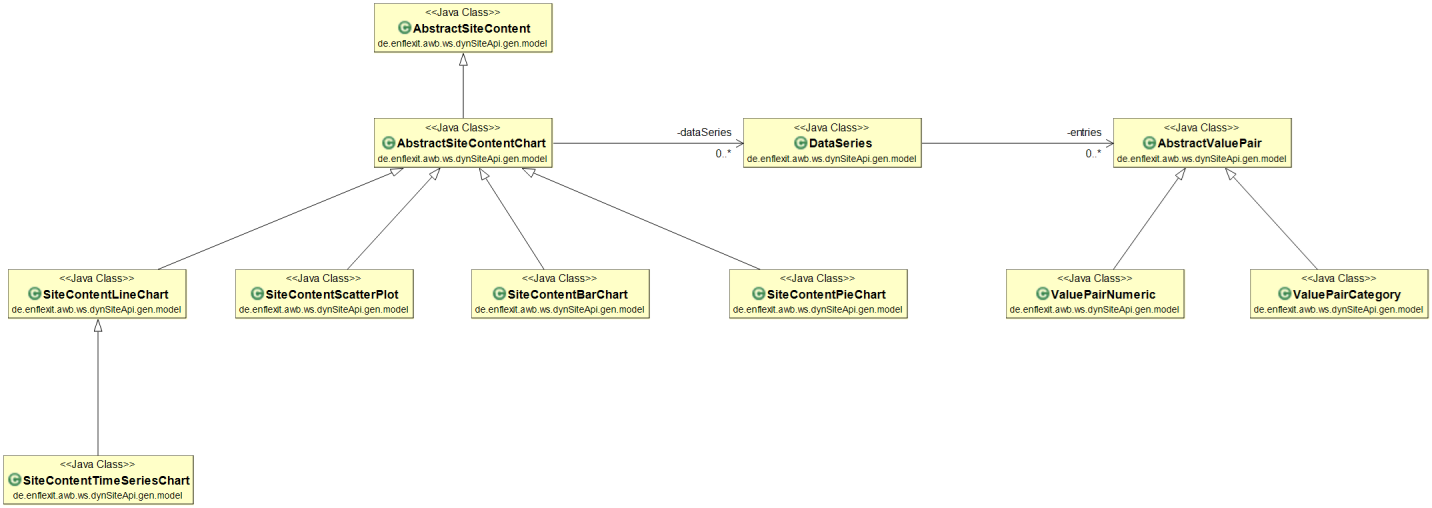
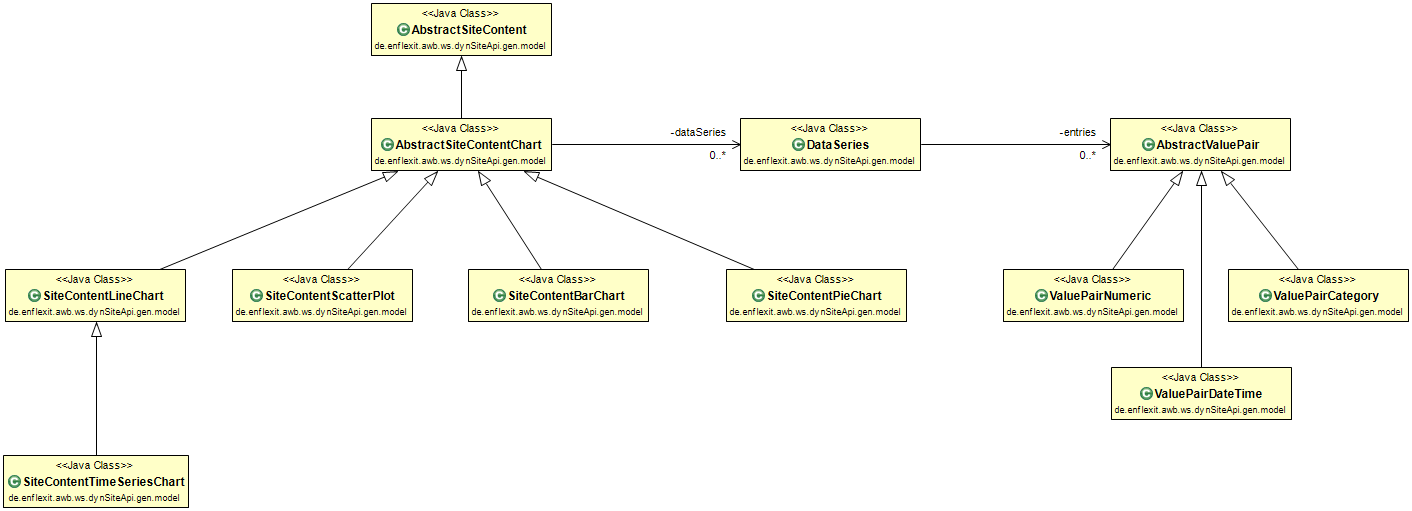
Added further chart content examples, updated the class diagrams.

diff --git a/eclipseProjects/de.enflexit.awb/bundles/web/de.enflexit.awb.ws.dynSiteApi/src/de/enflexit/awb/ws/dynSiteApi/impl/ContentApiServiceImpl.java b/eclipseProjects/de.enflexit.awb/bundles/web/de.enflexit.awb.ws.dynSiteApi/src/de/enflexit/awb/ws/dynSiteApi/impl/ContentApiServiceImpl.java
@@ -12,6 +12,8 @@ import de.enflexit.awb.ws.dynSiteApi.gen.NotFoundException;
 import de.enflexit.awb.ws.dynSiteApi.gen.model.AbstractValuePair;
 import de.enflexit.awb.ws.dynSiteApi.gen.model.DataSeries;
 import de.enflexit.awb.ws.dynSiteApi.gen.model.PropertyEntry;
+import de.enflexit.awb.ws.dynSiteApi.gen.model.SiteContentBarChart;
+import de.enflexit.awb.ws.dynSiteApi.gen.model.SiteContentLineChart;
 import de.enflexit.awb.ws.dynSiteApi.gen.model.SiteContentList;
 import de.enflexit.awb.ws.dynSiteApi.gen.model.SiteContentListUpdate;
 import de.enflexit.awb.ws.dynSiteApi.gen.model.SiteContentPieChart;
@@ -102,6 +104,8 @@ public class ContentApiServiceImpl extends ContentApiService {
 		case -4:
 			scList.addContentListItem(this.createExamplePieChart());
 			scList.addContentListItem(this.createExampleTimeSeriesChart());
+			scList.addContentListItem(this.createExampleBarChart());
+			scList.addContentListItem(this.createExampleLineChart());
 			break;
 						
 		default:
@@ -122,7 +126,7 @@ public class ContentApiServiceImpl extends ContentApiService {
 		entries.add(DynamicContentFactory.createValuePairCategory("Erneuerbare", 284.0));
 		entries.add(DynamicContentFactory.createValuePairCategory("Sonstige", 79.2));
 		
-		List<DataSeries> series = DynamicContentFactory.createDataSeriesList("Strommix Detschland 2024 (Mrd. kWh)", entries);
+		List<DataSeries> series = DynamicContentFactory.createDataSeriesList("Strommix Deutschland 2024 (Mrd. kWh)", entries);
 		
 		SiteContentPieChart pieChart = DynamicContentFactory.createSiteContentPieChart(1, 0, false, series, null, false);
 		
@@ -235,6 +239,67 @@ public class ContentApiServiceImpl extends ContentApiService {
 		
 		SiteContentTimeSeriesChart tsChart = DynamicContentFactory.createSiteContentTimeSeriesChart(2, 0, false, DynamicContentFactory.createDataSeriesList("Power Consumption(W)", entries), "Power Consumption", false, "Time", "P(W)", null, "HH:mm");
 		return tsChart;
+	}
+	
+	/**
+	 * Creates an example bar chart.
+	 * @return the bar chart
+	 */
+	private SiteContentBarChart createExampleBarChart() {
+		List<AbstractValuePair> entries = new ArrayList<AbstractValuePair>();
+		entries.add(DynamicContentFactory.createValuePairCategory("Mo", 13549.35));
+		entries.add(DynamicContentFactory.createValuePairCategory("Di", 12528.15));
+		entries.add(DynamicContentFactory.createValuePairCategory("Mi", 13820.68333));
+		entries.add(DynamicContentFactory.createValuePairCategory("Do", 11762.65));
+		entries.add(DynamicContentFactory.createValuePairCategory("Fr", 16106.18333));
+		entries.add(DynamicContentFactory.createValuePairCategory("Sa", 14111.83333));
+		entries.add(DynamicContentFactory.createValuePairCategory("So", 19691.8));
+
+		SiteContentBarChart barChart = DynamicContentFactory.createSiteContentBarChart(3, 0, false, DynamicContentFactory.createDataSeriesList("Energy Consumption by Day", entries), "Energy Consumption by Day", false, "Week Day", "Electricity consumption (kWh)", null);
+		return barChart;
+	}
+	
+	/**
+	 * Creates an example line chart.
+	 * @return the site content line chart
+	 */
+	private SiteContentLineChart createExampleLineChart() {
+		List<AbstractValuePair> powerEntries = new ArrayList<AbstractValuePair>();
+		powerEntries.add(DynamicContentFactory.createValuePairNumeric(0, 0));
+		powerEntries.add(DynamicContentFactory.createValuePairNumeric(10, 21.36));
+		powerEntries.add(DynamicContentFactory.createValuePairNumeric(20, 10.74275508));
+		powerEntries.add(DynamicContentFactory.createValuePairNumeric(30, 12.29845321));
+		powerEntries.add(DynamicContentFactory.createValuePairNumeric(40, 12.44655635));
+		powerEntries.add(DynamicContentFactory.createValuePairNumeric(50, 14.0189442));
+		powerEntries.add(DynamicContentFactory.createValuePairNumeric(60, 14.18850521));
+		powerEntries.add(DynamicContentFactory.createValuePairNumeric(70, 15.69219974));
+		powerEntries.add(DynamicContentFactory.createValuePairNumeric(80, 15.81594016));
+		powerEntries.add(DynamicContentFactory.createValuePairNumeric(90, 17.45706539));
+		powerEntries.add(DynamicContentFactory.createValuePairNumeric(100, 17.50336054));
+		
+		List<AbstractValuePair> sludgeEntries = new ArrayList<AbstractValuePair>();
+		sludgeEntries.add(DynamicContentFactory.createValuePairNumeric(0, 0));
+		sludgeEntries.add(DynamicContentFactory.createValuePairNumeric(0.1, 129.24));
+		sludgeEntries.add(DynamicContentFactory.createValuePairNumeric(0.2, 258.48));
+		sludgeEntries.add(DynamicContentFactory.createValuePairNumeric(0.3, 387.72));
+		sludgeEntries.add(DynamicContentFactory.createValuePairNumeric(0.4, 516.96));
+		sludgeEntries.add(DynamicContentFactory.createValuePairNumeric(0.5, 646.2));
+		sludgeEntries.add(DynamicContentFactory.createValuePairNumeric(0.6, 775.44));
+		sludgeEntries.add(DynamicContentFactory.createValuePairNumeric(0.7, 904.68));
+		sludgeEntries.add(DynamicContentFactory.createValuePairNumeric(0.8, 1033.92));
+		sludgeEntries.add(DynamicContentFactory.createValuePairNumeric(0.9, 1163.16));
+		sludgeEntries.add(DynamicContentFactory.createValuePairNumeric(1, 1292.4));
+		
+		DataSeries powerDataSeries = DynamicContentFactory.createDataSeries("Electricity consumption (kW)", powerEntries);
+		DataSeries sludgeDataSeries = DynamicContentFactory.createDataSeries("Sludge throughput (kg)", sludgeEntries, true);
+		
+		ArrayList<DataSeries> seriesList = new ArrayList<DataSeries>();
+		seriesList.add(powerDataSeries);
+		seriesList.add(sludgeDataSeries);
+		
+		SiteContentLineChart lineChart = DynamicContentFactory.createSiteContentLineChart(4, 0, false, seriesList, "Decanter Stats", true, "Operating Point (%)", "Electricity (kW)", "Sludge(kg)"); 
+		
+		return lineChart;
 	}
 	
 }
